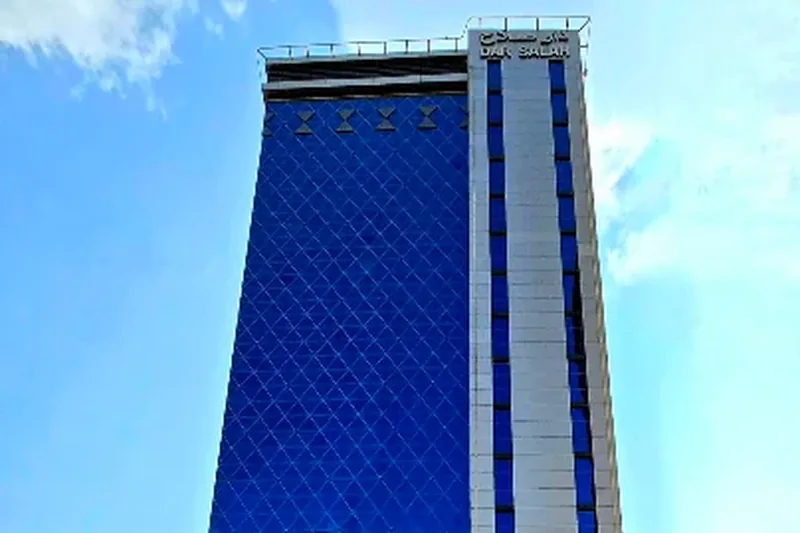
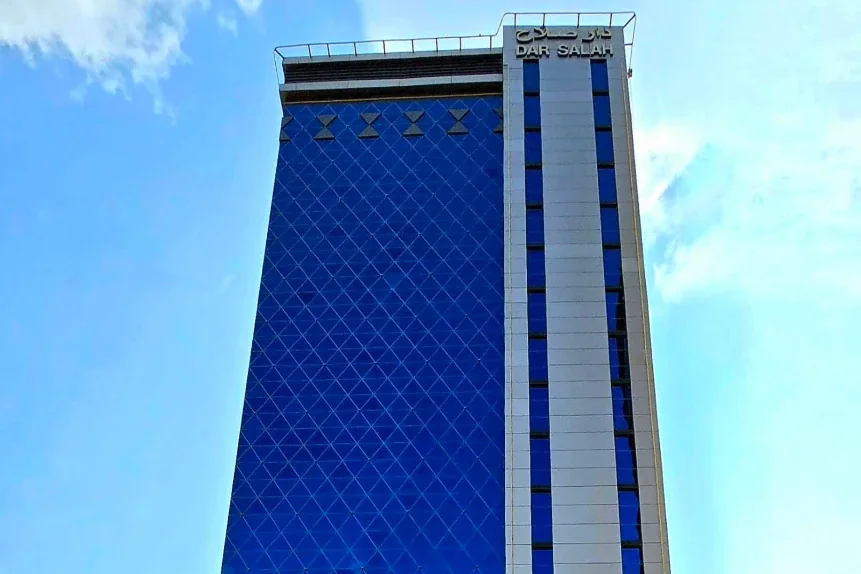
Swap in the higher-resolution Dar al-Salah tower photo
The hotel card's main shot was a 404 px portrait blown up to fill a
670 px tile, so the signage never resolved. The new 861x629 frame
carries it: the big tile is a 3:2 crop of it and the lightbox holds it
whole. The keistimewaan tile shares the same file, so its square crop
was recut from the new source and its lightbox dimensions corrected.

diff --git a/site-live/haji.html b/site-live/haji.html
@@ -1377,7 +1377,7 @@ body.lb-lock{overflow:hidden}
       <div class="addons">
         <article class="addon">
           <button class="addon__hit lbx" type="button" data-lb-group="istimewa-1448"
-                  data-full="images/hotel/dar-al-salah-1.webp" data-w="404" data-h="510"
+                  data-full="images/hotel/dar-al-salah-1.webp" data-w="861" data-h="629"
                   data-title="Penginapan Aziziyah"
                   data-meta="Dar Salah Hotel @setaraf, Al Mursalat, Makkah — lebih kurang 420 m dari Kompleks Jamarat">
             <img class="addon__img" src="images/haji/istimewa-1448-dar-salah-thumb.webp" width="800" height="800" loading="lazy" decoding="async"
@@ -2093,11 +2093,11 @@ body.lb-lock{overflow:hidden}
       <article class="hpak">
         <div class="hpak__shots">
           <button class="hpak__shot hpak__shot--big gitem lbx" type="button" data-lb-group="hotel-dar-al-salah"
-                  data-full="images/hotel/dar-al-salah-1.webp" data-w="404" data-h="510"
+                  data-full="images/hotel/dar-al-salah-1.webp" data-w="861" data-h="629"
                   data-title="Bangunan hotel"
                   data-meta="Dar al-Salah Hotel di Aziziyyah &middot; 420 m dari Kompleks Jamarat">
-            <img src="images/hotel/dar-al-salah-1-thumb.webp" width="800" height="533" loading="lazy" decoding="async"
-                 alt="Bahagian atas menara Dar Salah Hotel di Aziziyah, Makkah, dengan fasad kaca biru bercorak berlian dan papan tanda hotel di puncak bangunan">
+            <img src="images/hotel/dar-al-salah-1-thumb.webp" width="861" height="574" loading="lazy" decoding="async"
+                 alt="Menara Dar Salah Hotel di Aziziyah, Makkah, dengan papan tanda nama hotel di puncak bangunan dan fasad kaca biru bercorak berlian">
             <span class="hpak__scrim" aria-hidden="true"></span>
           </button>
           <div class="hpak__body">
